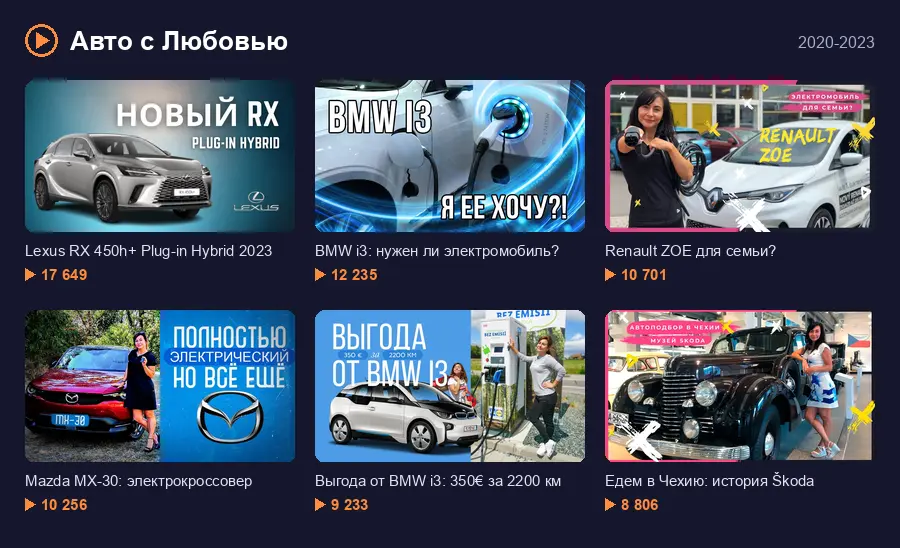
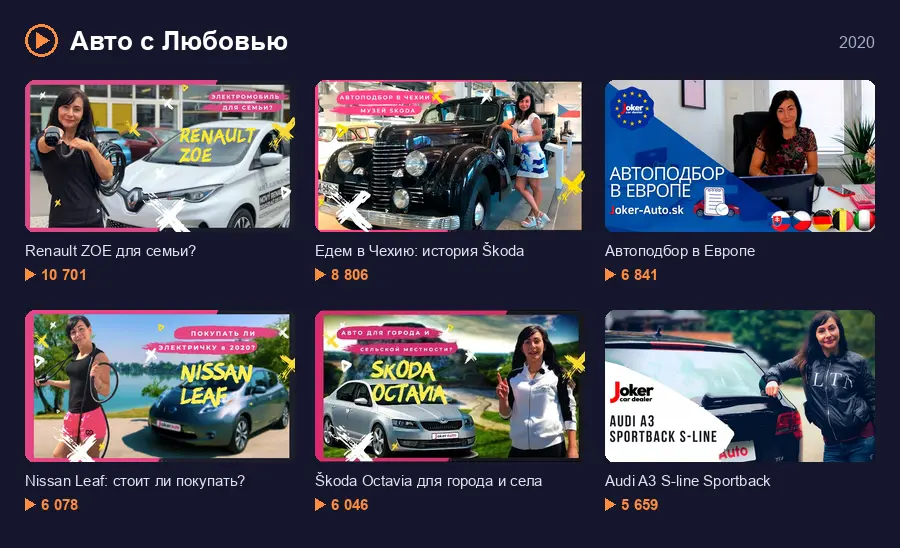
fix: the YouTube projects in the YouTube ads article are described as joint work, the car channel shows only the 2020 videos made together (21 videos, 89,219 views), and the Slovakia Today project gets its own grid of 2020 episodes with its milestones

diff --git a/src/content/blog/ru/reklama-na-youtube-stoimost.md b/src/content/blog/ru/reklama-na-youtube-stoimost.md
@@ -59,13 +59,15 @@ YouTube второй по величине поисковик после Google,
 
 ## Мои YouTube-проекты
 
-YouTube я знаю и с другой стороны, как автор каналов. Эти проекты я делал целиком.
+YouTube я знаю и с другой стороны, как соавтор каналов.
 
-**Авто с Любовью** ([канал на YouTube](https://www.youtube.com/@autowithlove)): русскоязычный канал о подборе автомобилей в Европе и об электромобилях. С мая 2020 года: 33 видео, 166 740 просмотров и около 2 200 подписчиков. Самое популярное видео, обзор Lexus RX 450h+, набрало 17 649 просмотров, обзоры BMW i3, Renault ZOE и Mazda MX-30 по 10-12 тысяч.
+**Авто с Любовью** ([канал на YouTube](https://www.youtube.com/@autowithlove)): русскоязычный канал о подборе автомобилей в Европе и об электромобилях. В 2020 году мы делали его вместе с его автором, потом она продолжила вести канал сама с новой командой. С июня по ноябрь 2020 года мы вместе выпустили 21 видео, сейчас у них в сумме 89 219 просмотров. Самое популярное из них, обзор Renault ZOE, набрало 10 701 просмотр.
 
-![Самые популярные видео канала «Авто с Любовью» | White Eagles & Co.](/assets/blog/youtube-avto-s-lyubovyu.webp)
+![Самые популярные видео канала «Авто с Любовью» 2020 года | White Eagles & Co.](/assets/blog/youtube-avto-s-lyubovyu.webp)
 
-**Словакия сегодня**: еженедельный обзор новостей Словакии на русском. Его YouTube-канал с июля 2020 года собрал 20 видео, 54 830 просмотров и 893 подписчика (по данным Social Blade, сейчас канал удалён), у [страницы в Facebook](https://www.facebook.com/slovakiadnes) 1 200 подписчиков.
+**Словакия сегодня**: наш общий проект, еженедельный обзор новостей Словакии на русском со своей студией, ведущими и аудиоподкастом. YouTube-канал, созданный в июле 2020 года, к декабрю набрал первую 1 000 подписчиков, всего на нём вышло 20 видео с 54 830 просмотрами (последние данные Social Blade, сейчас канал удалён). У [страницы в Facebook](https://www.facebook.com/slovakiadnes) 1 200 подписчиков, самый популярный выпуск там, неделя 7-13 декабря 2020 года, набрал 7 681 просмотр.
+
+![Выпуски проекта «Словакия сегодня» 2020 года | White Eagles & Co.](/assets/blog/youtube-slovakiya-segodnya.webp)
 
 По этим проектам я знаю, от чего зависит просмотр: первые секунды, превью и тема, которую люди действительно ищут. С рекламным видео всё так же.
 

diff --git a/src/content/blog/en/youtube-ads-cost.md b/src/content/blog/en/youtube-ads-cost.md
@@ -59,13 +59,15 @@ For comparison, prices in search and Shopping, with figures from my campaigns, a
 
 ## My own YouTube projects
 
-I also know YouTube from the other side, as a channel creator. I built these projects end to end.
+I also know YouTube from the other side, as a co-creator of channels.
 
-**Авто с Любовью** ("Cars with Love", [the YouTube channel](https://www.youtube.com/@autowithlove)) is a Russian-language channel about sourcing cars in Europe and about electric cars. Since May 2020: 33 videos, 166,740 views and about 2,200 subscribers. The most watched video, a Lexus RX 450h+ review, has 17,649 views; the BMW i3, Renault ZOE and Mazda MX-30 reviews 10,000 to 12,000 each.
+**Авто с Любовью** ("Cars with Love", [the YouTube channel](https://www.youtube.com/@autowithlove)) is a Russian-language channel about sourcing cars in Europe and about electric cars. In 2020 we made it together with its author; later she ran it herself with a new team. From June to November 2020 we released 21 videos together, which now have 89,219 views between them. The most watched of them, a Renault ZOE review, has 10,701 views.
 
-![The most watched videos of the Авто с Любовью channel | White Eagles & Co.](/assets/blog/youtube-avto-s-lyubovyu.webp)
+![The most watched 2020 videos of the Авто с Любовью channel | White Eagles & Co.](/assets/blog/youtube-avto-s-lyubovyu.webp)
 
-**Словакия сегодня** ("Slovakia Today") was a weekly round-up of Slovak news in Russian. Its YouTube channel gathered 20 videos, 54,830 views and 893 subscribers from July 2020 (according to Social Blade; the channel has since been closed), and [its Facebook page](https://www.facebook.com/slovakiadnes) has 1,200 followers.
+**Словакия сегодня** ("Slovakia Today") was our joint project: a weekly round-up of Slovak news in Russian with its own studio, presenters and an audio podcast. The YouTube channel, started in July 2020, reached its first 1,000 subscribers by December and gathered 20 videos and 54,830 views in all (the last Social Blade figures; the channel has since been closed). [Its Facebook page](https://www.facebook.com/slovakiadnes) has 1,200 followers, and its most watched episode there, the week of 7-13 December 2020, has 7,681 views.
+
+![Episodes of the Словакия сегодня project from 2020 | White Eagles & Co.](/assets/blog/youtube-slovakiya-segodnya.webp)
 
 These projects taught me what decides a view: the first seconds, the thumbnail and a topic people actually look for. It is the same with an ad video.
 

diff --git a/src/content/blog/sk/reklama-na-youtube.md b/src/content/blog/sk/reklama-na-youtube.md
@@ -59,13 +59,15 @@ Pre porovnanie, ako vyzerajú ceny vo vyhľadávaní a v Nákupoch, je v článk
 
 ## Moje YouTube projekty
 
-YouTube poznám aj z druhej strany, ako tvorca kanálov. Tieto projekty som robil celé.
+YouTube poznám aj z druhej strany, ako spolutvorca kanálov.
 
-**Авто с Любовью** ([kanál na YouTube](https://www.youtube.com/@autowithlove)) je ruskojazyčný kanál o výbere áut v Európe a o elektromobiloch. Od mája 2020: 33 videí, 166 740 zhliadnutí a približne 2 200 odberateľov. Najsledovanejšie video, recenzia Lexus RX 450h+, má 17 649 zhliadnutí, recenzie BMW i3, Renault ZOE a Mazda MX-30 po 10 až 12 tisíc.
+**Авто с Любовью** ([kanál na YouTube](https://www.youtube.com/@autowithlove)) je ruskojazyčný kanál o výbere áut v Európe a o elektromobiloch. V roku 2020 sme ho robili spolu s jeho autorkou, neskôr ho viedla sama s novým tímom. Od júna do novembra 2020 sme spolu vydali 21 videí, ktoré majú dnes spolu 89 219 zhliadnutí. Najsledovanejšie z nich, recenzia Renault ZOE, má 10 701 zhliadnutí.
 
-![Najsledovanejšie videá kanála Авто с Любовью | White Eagles & Co.](/assets/blog/youtube-avto-s-lyubovyu.webp)
+![Najsledovanejšie videá kanála Авто с Любовью z roku 2020 | White Eagles & Co.](/assets/blog/youtube-avto-s-lyubovyu.webp)
 
-**Словакия сегодня** bol týždenný prehľad slovenských správ v ruštine. Jeho YouTube kanál od júla 2020 nazbieral 20 videí, 54 830 zhliadnutí a 893 odberateľov (podľa Social Blade, kanál je dnes zrušený), [stránka na Facebooku](https://www.facebook.com/slovakiadnes) má 1 200 sledovateľov.
+**Словакия сегодня** bol náš spoločný projekt: týždenný prehľad slovenských správ v ruštine s vlastným štúdiom, moderátormi a audiopodcastom. YouTube kanál založený v júli 2020 mal do decembra prvých 1 000 odberateľov, spolu nazbieral 20 videí a 54 830 zhliadnutí (posledné údaje Social Blade, kanál je dnes zrušený). [Stránka na Facebooku](https://www.facebook.com/slovakiadnes) má 1 200 sledovateľov a najsledovanejšie vydanie, týždeň 7.-13. decembra 2020, má tam 7 681 zhliadnutí.
+
+![Vydania projektu Словакия сегодня z roku 2020 | White Eagles & Co.](/assets/blog/youtube-slovakiya-segodnya.webp)
 
 Z týchto projektov viem, čo rozhoduje o zhliadnutí: prvé sekundy, náhľadový obrázok a téma, ktorú ľudia naozaj hľadajú. Pri reklamnom videu je to rovnaké.
 
